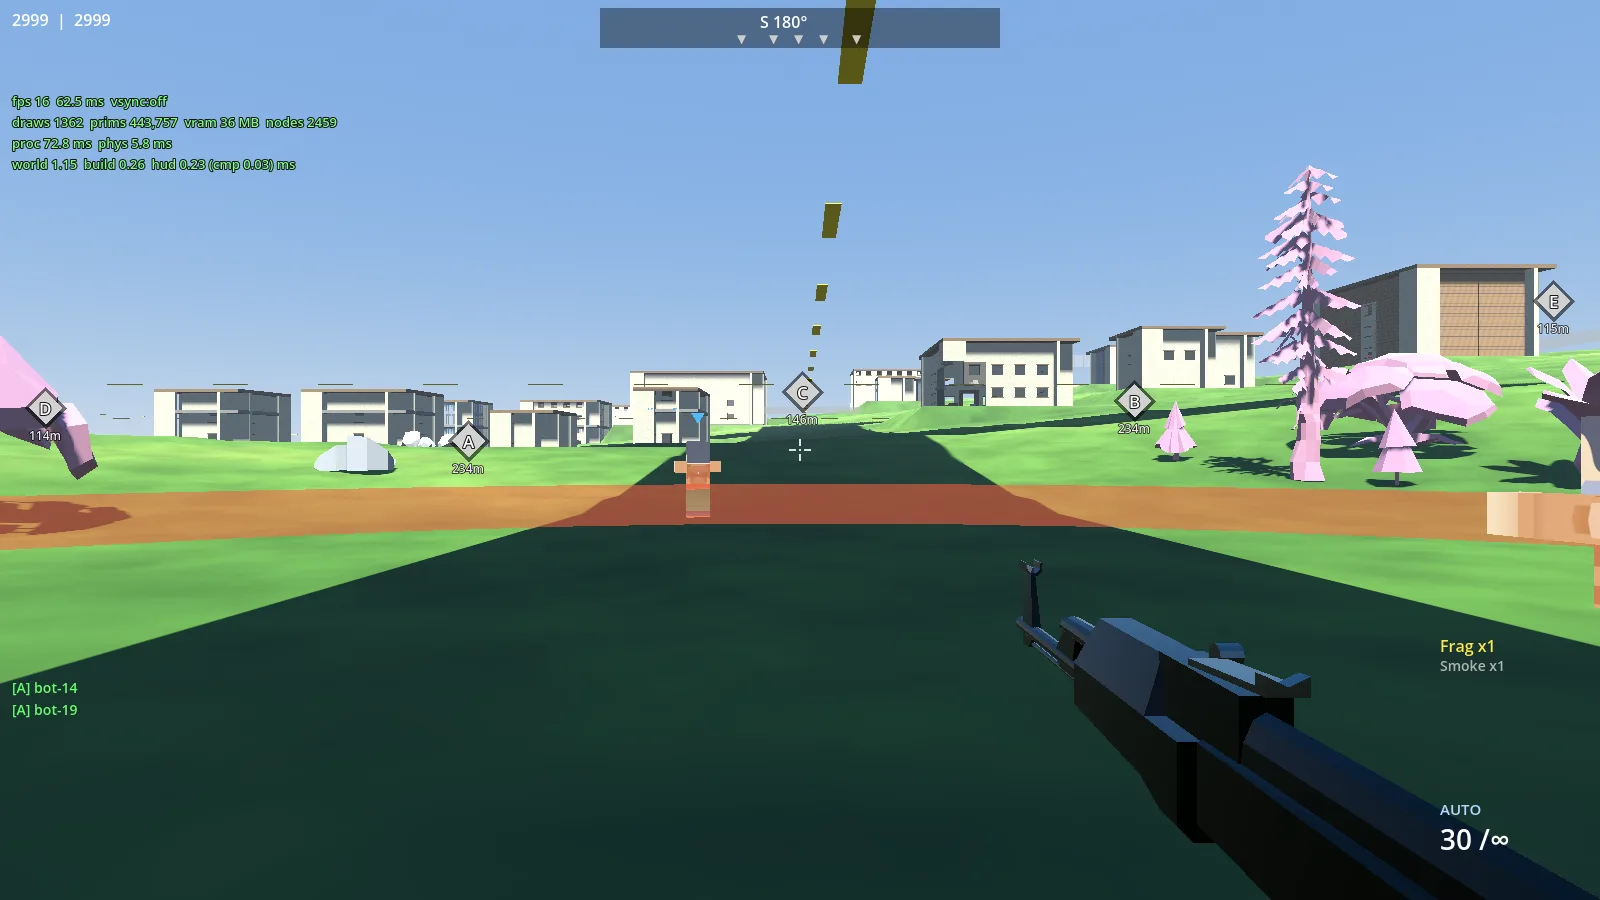
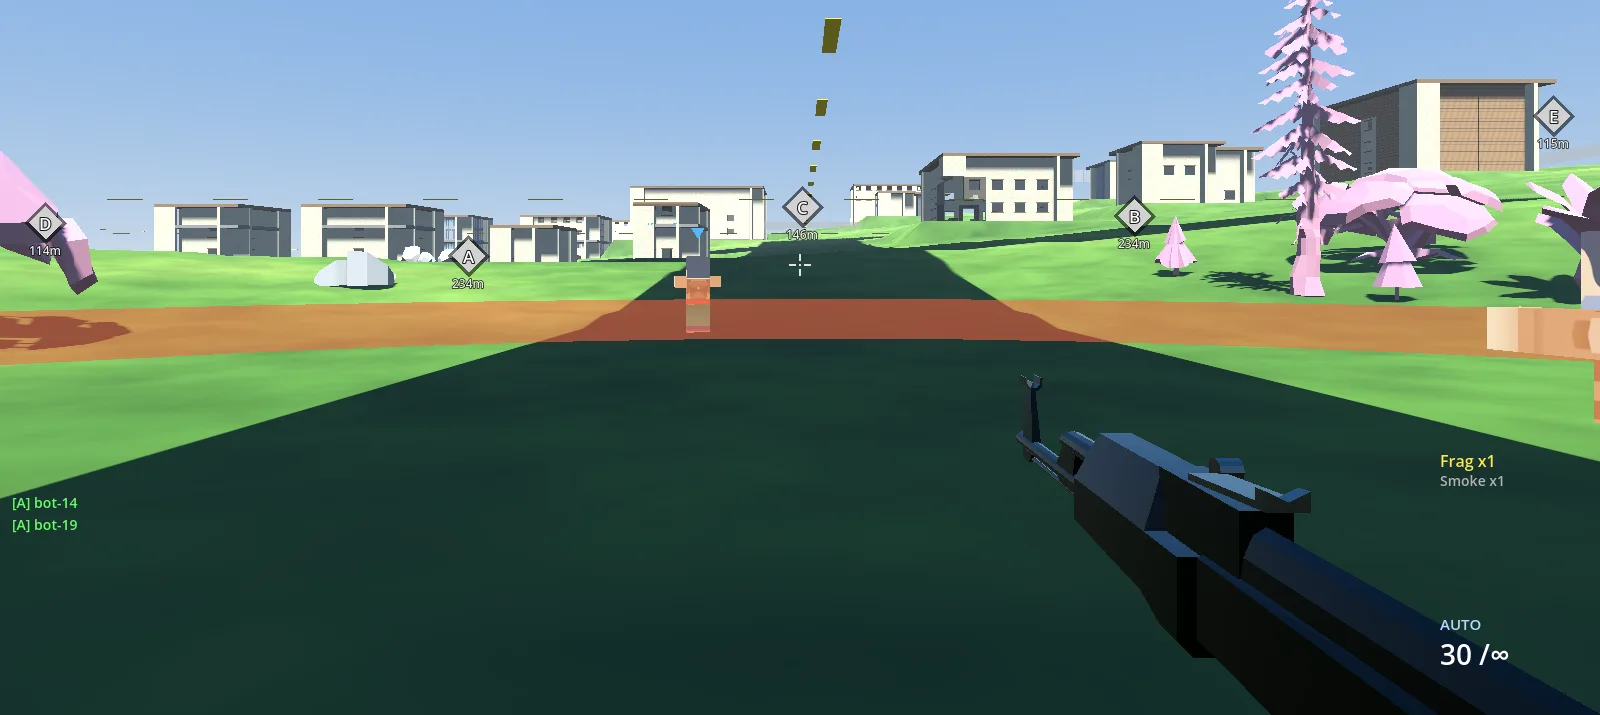
fix(web): crop perf-debug overlay off hero/gallery shot 01

diff --git a/web/site/index.html b/web/site/index.html
@@ -108,7 +108,7 @@
 
         <div class="gallery">
           <figure class="shot">
-            <img src="assets/shots/01.webp" width="1600" height="900" loading="lazy"
+            <img src="assets/shots/01.webp" width="1600" height="715" loading="lazy"
                  alt="Wide daytime Conquest battle across a low-poly town, with lettered objective markers in the distance and a rifle at the ready.">
             <figcaption>Objective push</figcaption>
           </figure>
